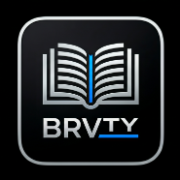
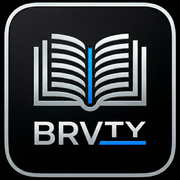
Add files via upload

diff --git a/index.html b/index.html
@@ -146,6 +146,10 @@
     border-radius: 1px;
   }
 
+  /* Wordmark: only "TY" is underlined, matching the app icon */
+  .ty .y { letter-spacing: 0; }
+  .ty { display: inline-block; border-bottom: 2px solid var(--blue); padding-bottom: 3px; line-height: 1; }
+
   nav { display: flex; gap: 0.1rem; align-items: center; }
   nav a {
     font-family: var(--font-mono);
@@ -1215,7 +1219,7 @@
 <header>
   <a href="#" class="logo-wrap">
     <div class="logo-icon"><img src="icon-512.png" alt="BRVTY"></div>
-    <div class="logo-text">BRVTY<span class="blue-bar"></span></div>
+    <div class="logo-text">BRV<span class="ty">T<span class="y">Y</span></span></div>
   </a>
   <nav>
     <a href="#features">Features</a>
@@ -1577,7 +1581,7 @@
     <div class="footer-brand">
       <a href="#" class="footer-logo-wrap">
         <img src="icon-512.png" alt="BRVTY" style="width:40px;height:40px;border-radius:8px;object-fit:cover;flex-shrink:0;box-shadow:0 0 10px rgba(43,127,255,0.2);">
-        <div class="footer-logo-text">BRVTY<span class="blue-bar"></span></div>
+        <div class="footer-logo-text">BRV<span class="ty">T<span class="y">Y</span></span></div>
       </a>
       <p>The shortcut intelligence platform for the curious professional. AI-crafted summaries that drive readers back to the books they love.</p>
     </div>

diff --git a/sw.js b/sw.js
@@ -3,7 +3,7 @@
  * HTML is network-first (so edits show up immediately); static assets are cache-first.
  * Bump CACHE_NAME on each deploy that changes cached assets.
  */
-const CACHE_NAME = 'brvty-landing-v3';
+const CACHE_NAME = 'brvty-landing-v4';
 const PRECACHE_URLS = ['./', './index.html', './manifest.json', './icon-192.png', './icon-512.png', './icon-180.png', './lazlab-96.png'];
 
 self.addEventListener('message', e => { if (e.data && e.data.type === 'SKIP_WAITING') self.skipWaiting(); });

diff --git a/README.md b/README.md
@@ -1,82 +1,27 @@
-<p align="center"><img src="docs/banner.svg" alt="BRVTY, Book Intelligence" width="100%"></p>
+# BRVTY Landing Page
 
-# BRVTY — Book Intelligence
+Marketing page for BRVTY at **https://brvty.net**. The app itself lives in a separate repo (`brvty-app`) at **https://app.brvty.net**.
 
-Turn any book into a structured summary and a commute-ready audio experience. BRVTY is a single-file PWA by [LAZLAB Creations](https://brvty.net). It runs on your own free Google Gemini key, keeps everything on your device, and needs no account.
-
-## Live URLs
-
-| | |
-|---|---|
-| App | https://app.brvty.net |
-| Landing page | https://brvty.net (separate repo: `brvty-landing`) |
-
-## How it works
-
-<img src="docs/how-it-works.svg" alt="Enter a title, read the brief, make the audio, listen anywhere" width="100%">
-
-## What you get
-
-- **Book summaries:** thesis, 4 key pillars, deep dive, action items and quotes, with cover art.
-- **Chapter audio:** one track per section, with auto-advance and steering-wheel controls.
-- **Quick and Deep Dive audio:** a 3–4 minute brief, or a long audiobook-style narration.
-- **Document mode:** paste an article, report or notes and summarize it or read it aloud.
-- **Audiobook shelf:** import your own MP3, M4A, WAV or FLAC files into the same player.
-- **Smart library:** search, sort and filter; notes and bookmarks per book.
-- **Car Mode and sleep timer** for the drive.
-- **Vault:** export and import your whole library as one `.folio` file.
-
-## First run
-
-1. Open the app and follow the **Start here** card on the Generate screen (or the intro).
-2. Create a key in [Google AI Studio](https://aistudio.google.com/apikey), paste it, and tap **Save & test key**.
-3. Enter a book title and tap Generate.
-
-## AI and model setup
-
-BRVTY uses Google Gemini only.
-
-- Defaults: `gemini-3.7-flash` for summaries and `gemini-3.1-flash-tts-preview` for audio (voices Aoede, Orus, Charon, Kore).
-- Saving your key fetches the models your key can use. **Settings → Models → Refresh model list** repeats that any time.
-- Defaults and your saved choices are never changed automatically. If a chosen model disappears from Google's list, it stays selected and is flagged "(not in current list)".
-
-## Data and privacy
-
-Your key, library, audio and notes live in your browser storage (localStorage and IndexedDB). Nothing is sent anywhere except direct calls to Google's Gemini API and cover lookups (Open Library, iTunes). Export a vault backup regularly: clearing browser data deletes the library.
-
-## Repo layout
+## Layout
 
 ```
-index.html        the whole app (HTML, CSS, JS)
-manifest.json     PWA manifest (scope "/")
-sw.js             service worker, versioned from index.html
-offline.html      shown when offline and nothing is cached
-icon-192.png  icon-512.png  icon-180.png
-shot-*.png        install-dialog screenshots
-brvty-library.folio   library backup loaded by the logo shortcut (see below)
-docs/             README visuals
+index.html                     the page
+manifest.json  sw.js           lightweight PWA files (display: browser)
+icon-180.png icon-192.png icon-512.png  lazlab-96.png
+art-of-the-pause-summary.mp3   audio sample played on the page
+BRVTY.apk                      Android build (hidden: tap the footer logo 3 times)
+CNAME                          brvty.net
 ```
 
-## Loading your library backup
-
-Tap the BRVTY logo 5 times quickly and the app loads `brvty-library.folio` from the site and merges it into your library (books already present are skipped).
-
-The file in this repo is an **empty placeholder**. To use your own: in the app go to **Settings → Library Vault → Export Vault**, save the `.folio` file here as `brvty-library.folio`, then deploy. Large backups load slowly on mobile data; keep the file out of the service-worker cache (it already is).
-
-## Deploy and update
-
-Hosted on GitHub Pages at app.brvty.net, served from the repo root. To ship a change:
+## Update the page
 
 1. Edit `index.html`.
-2. Bump `APP_VERSION` in `index.html`. That one value drives the version shown in the app, the title and the service-worker cache name (`brvty-v<version>`).
-3. Commit and push. Installed copies show an **update ready** banner on next open.
+2. If you changed anything the service worker caches, bump `CACHE_NAME` in `sw.js`.
+3. Push. GitHub Pages deploys automatically.
 
-Moving files or changing `scope` can break existing installs, so keep the app at the repo root.
+## Replace the Android build
 
-## Changelog
-
-- **6.2:** service worker now registers at the real root path (offline works); network-first pages with an update banner; first-run key card with key testing; model picker with refresh; square maskable icons and valid screenshots; contrast, zoom and label fixes; library file loader fixed with a placeholder; single `APP_VERSION`.
-- **6.1:** Gemini model update, cover-scan, library vault.
+Drop the new file in as `BRVTY.apk` (same name) and push. It is excluded from the service-worker cache, so visitors always get the latest.
 
 ---
 
